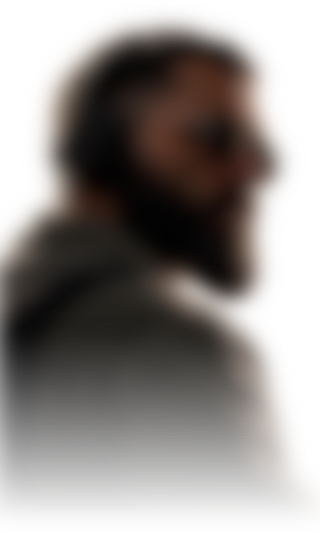
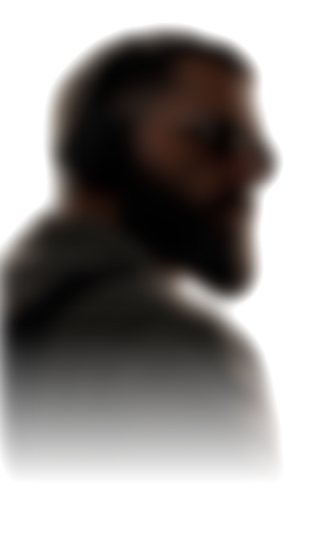
الواجهة: تمويه أسرع وأنعم مع تعتيم إلى الأسود، وإزالة التوهّج حول الصورة والاسم

Changed region(s): [[0.0, 0.6604, 0.9375, 0.9606], [0.0312, 0.03, 0.9062, 0.6904], [0.5312, 0.5704, 0.6875, 0.6304]]

diff --git a/index.html b/index.html
@@ -61,16 +61,20 @@ a:focus-visible,button:focus-visible{outline:2px solid var(--rim);outline-offset
 main,footer{position:relative;z-index:1}
 .hero{position:relative;height:clamp(640px,100svh,960px);isolation:isolate}
 .hero-mark{position:absolute;left:0;width:1px;height:1px;pointer-events:none}
-.giant{transition:opacity .8s var(--ease)}
-.p-sharp{transition:opacity 1s var(--ease)}
+/* blur + dim: sharp photo crossfades into a pre-blurred, darker copy while a black veil rises */
+.scrim{position:absolute;inset:0;z-index:3;background:var(--bg);opacity:0;transition:opacity .9s var(--ease)}
+.giant{transition:opacity .7s var(--ease)}
+.p-sharp{transition:opacity .8s var(--ease)}
 .stage.soft .giant,.stage.soft .p-sharp{opacity:0}
-.stage.gone{opacity:0}
+.stage.soft .scrim{opacity:.55}
+.stage.gone .scrim{opacity:1}
 @keyframes fadeAway{to{opacity:0}}
+@keyframes veil{to{opacity:1}}
 @supports (animation-timeline: scroll()){
   /* scrubbed with the scroll by the browser itself — off the main thread */
-  .stage .giant{animation:fadeAway linear both;animation-timeline:scroll(root);animation-range:0 38vh}
-  .stage .p-sharp{animation:fadeAway linear both;animation-timeline:scroll(root);animation-range:6vh 62vh}
-  .stage{animation:fadeAway linear both;animation-timeline:scroll(root);animation-range:48vh 110vh}
+  .stage .giant{animation:fadeAway both;animation-timing-function:cubic-bezier(.4,0,.6,1);animation-timeline:scroll(root);animation-range:0 26vh}
+  .stage .p-sharp{animation:fadeAway both;animation-timing-function:cubic-bezier(.45,0,.55,1);animation-timeline:scroll(root);animation-range:2vh 34vh}
+  .stage .scrim{animation:veil both;animation-timing-function:cubic-bezier(.4,0,.7,1);animation-timeline:scroll(root);animation-range:6vh 58vh}
 }
 .giant{
   position:absolute;left:0;right:0;top:9%;z-index:1;margin:0;direction:ltr;
@@ -240,8 +244,7 @@ footer .wrap{display:flex;flex-wrap:wrap;justify-content:space-between;gap:12px;
 /* name lit letter by letter, like the rim light in the portrait */
 .giant .ch{display:inline-block;--k:0;
   color:color-mix(in srgb,var(--rim) calc(var(--k) * 70%),var(--ghost));
-  text-shadow:0 0 calc(var(--k) * 60px) rgba(240,164,91,calc(var(--k) * .45))}
-@media (hover:none){.giant .ch{text-shadow:none}}
+}
 
 /* tools ribbon */
 .ribbon{border-block:1px solid var(--line);overflow:hidden;direction:ltr;padding-block:20px;
@@ -304,12 +307,13 @@ img{max-width:100%}
       <picture class="p-blur"><source srcset="portrait-blur.avif" type="image/avif"><img src="portrait-blur.png" alt="" width="800" height="1334" decoding="async"></picture>
       <picture class="p-sharp"><source srcset="portrait-cut.avif" type="image/avif"><img src="portrait-cut.png" alt="Portrait of Hussain Mhnna" width="800" height="1334" decoding="async" fetchpriority="high"></picture>
     </div></div>
+  <i class="scrim" aria-hidden="true"></i>
 </div>
 
 <main id="top">
   <div class="hero" id="hero">
-    <i class="hero-mark" id="mark-soft" style="top:30%" aria-hidden="true"></i>
-    <i class="hero-mark" id="mark-gone" style="top:78%" aria-hidden="true"></i>
+    <i class="hero-mark" id="mark-soft" style="top:18%" aria-hidden="true"></i>
+    <i class="hero-mark" id="mark-gone" style="top:52%" aria-hidden="true"></i>
     <div class="lang-float">
       <div class="lang" role="group" aria-label="Language">
         <button type="button" class="en" id="btn-en" aria-pressed="true">EN</button>
@@ -502,7 +506,8 @@ img{max-width:100%}
      Others get two steps from an observer: soften, then gone. No per-frame JavaScript. */
   var hero = document.getElementById('hero'), stageEl = document.getElementById('stage');
   var giant = document.getElementById('giant'), portrait = document.getElementById('portrait');
-  if('IntersectionObserver' in window){
+  var scrubbed = !reduce && window.CSS && CSS.supports && CSS.supports('animation-timeline: scroll()');
+  if(!scrubbed && 'IntersectionObserver' in window){
     [['mark-soft','soft'],['mark-gone','gone']].forEach(function(m){
       new IntersectionObserver(function(es){
         var e = es[0];
